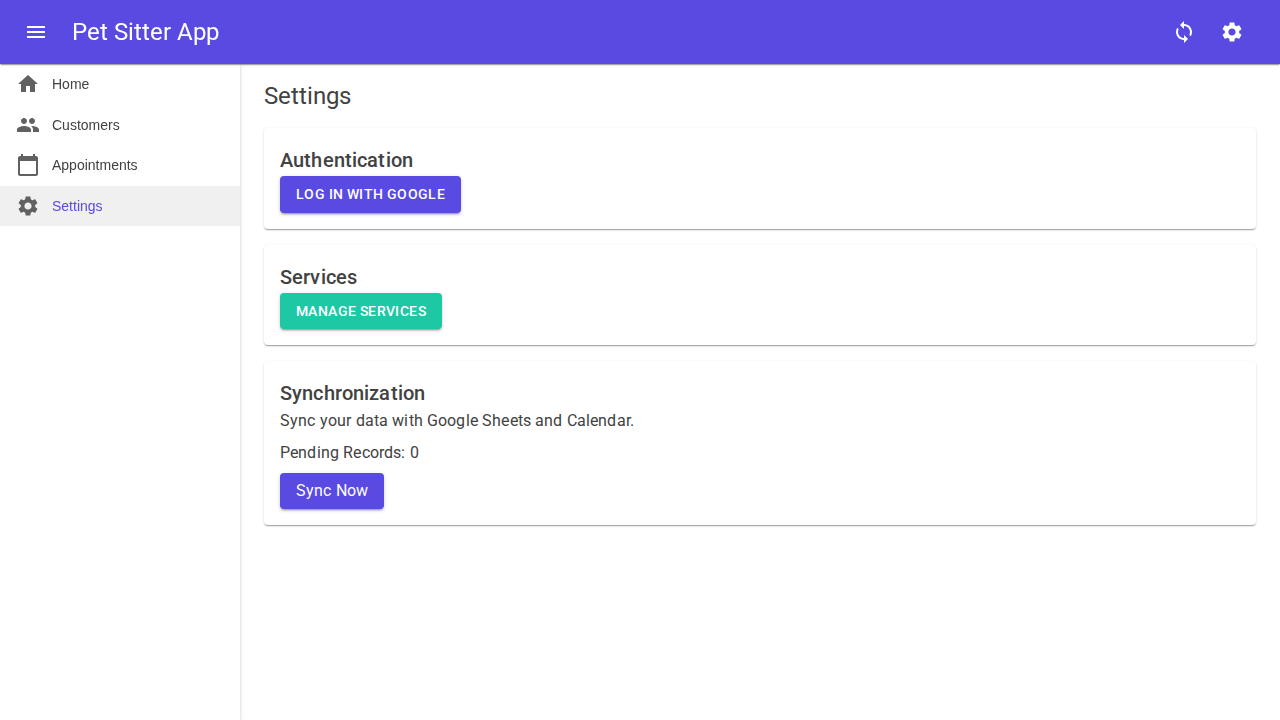
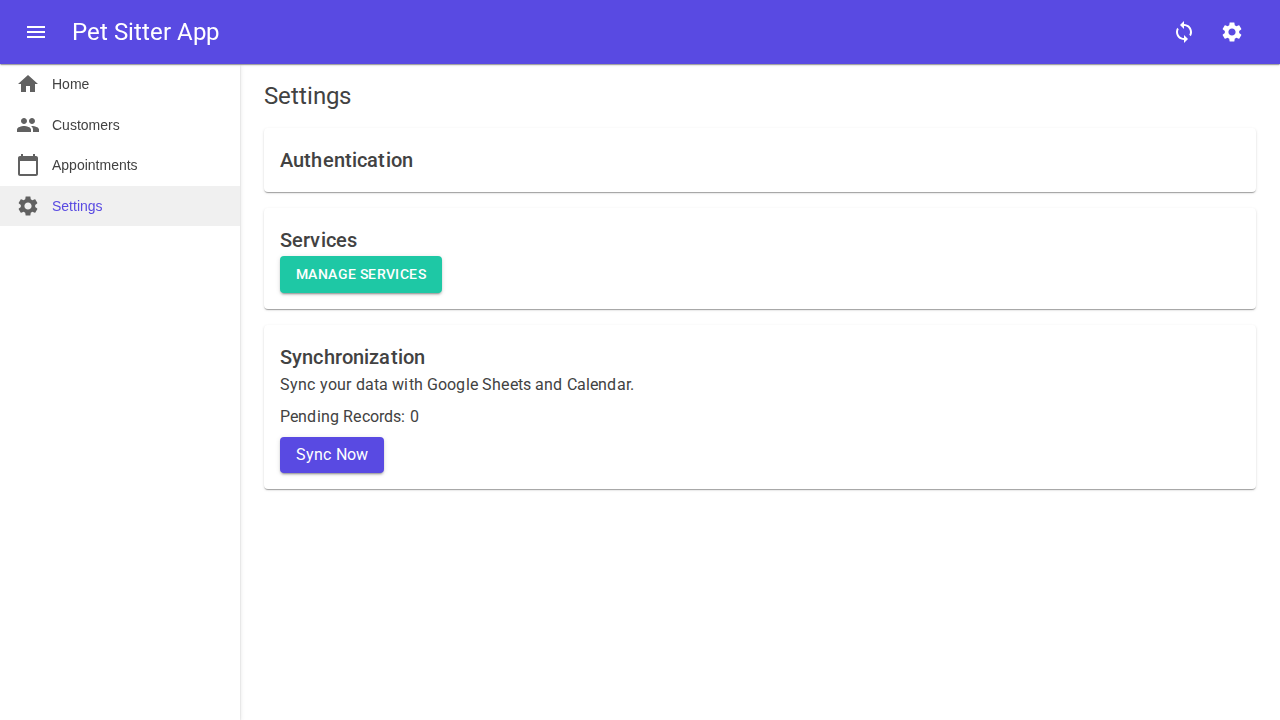
Fix Authentication Configuration and Add Missing Authentication Page

Changed region(s): [[0.2188, 0.2444, 0.5, 0.7333]]

diff --git a/verification/verify_login_redirect.py b/verification/verify_login_redirect.py
@@ -1,0 +1,34 @@
+from playwright.sync_api import sync_playwright, expect
+
+def run(playwright):
+    browser = playwright.chromium.launch(headless=True)
+    page = browser.new_page()
+
+    page.on("console", lambda msg: print(f"PAGE LOG: {msg.text}"))
+    page.on("pageerror", lambda err: print(f"PAGE ERROR: {err}"))
+
+    # 1. Navigate to Settings
+    print("Navigating to Settings...")
+    page.goto("http://localhost:5000/settings")
+
+    # 2. Click Login
+    print("Clicking Log in...")
+    page.get_by_role("button", name="Log in with Google").click()
+
+    # 3. Expect Navigation to Google (or at least not 404)
+    # Since we can't actually log in to Google in headless/sandbox without credentials,
+    # we just want to verify it redirects to accounts.google.com
+
+    try:
+        page.wait_for_url("https://accounts.google.com/**", timeout=5000)
+        print("Redirected to Google Accounts successfully.")
+    except Exception as e:
+        print(f"Failed to redirect to Google: {page.url}")
+        # If it stayed on localhost but showed 404, that's bad.
+        if "authentication/login" in page.url:
+             print("Stuck on authentication/login - likely 404 if Authentication.razor is missing/broken.")
+
+    browser.close()
+
+with sync_playwright() as playwright:
+    run(playwright)

diff --git a/verification/verify_login_redirect_debug.py b/verification/verify_login_redirect_debug.py
@@ -1,0 +1,34 @@
+from playwright.sync_api import sync_playwright, expect
+import time
+
+def run(playwright):
+    browser = playwright.chromium.launch(headless=True)
+    page = browser.new_page()
+
+    page.on("console", lambda msg: print(f"PAGE LOG: {msg.text}"))
+    page.on("pageerror", lambda err: print(f"PAGE ERROR: {err}"))
+    page.on("requestfailed", lambda request: print(f"REQUEST FAILED: {request.url} - {request.failure}"))
+    # page.on("request", lambda request: print(f"REQUEST: {request.url}"))
+
+    # 1. Navigate to Settings
+    print("Navigating to Settings...")
+    page.goto("http://localhost:5000/settings")
+
+    # 2. Click Login
+    print("Clicking Log in...")
+    page.get_by_role("button", name="Log in with Google").click()
+
+    # 3. Wait a bit
+    time.sleep(5)
+    print(f"Current URL: {page.url}")
+
+    try:
+        page.wait_for_url("https://accounts.google.com/**", timeout=5000)
+        print("Redirected to Google Accounts successfully.")
+    except Exception as e:
+        print(f"Failed to redirect to Google: {page.url}")
+
+    browser.close()
+
+with sync_playwright() as playwright:
+    run(playwright)

diff --git a/PetSitterApp/Program.cs b/PetSitterApp/Program.cs
@@ -17,7 +17,7 @@ builder.Services.AddScoped<SyncService>();
 builder.Services.AddOidcAuthentication(options =>
 {
     builder.Configuration.Bind("Google", options.ProviderOptions);
-    options.ProviderOptions.AdditionalProviderParameters.Add("audience", "https://www.googleapis.com/");
+    // options.ProviderOptions.AdditionalProviderParameters.Add("audience", "https://www.googleapis.com/");
 });
 
 await builder.Build().RunAsync();
